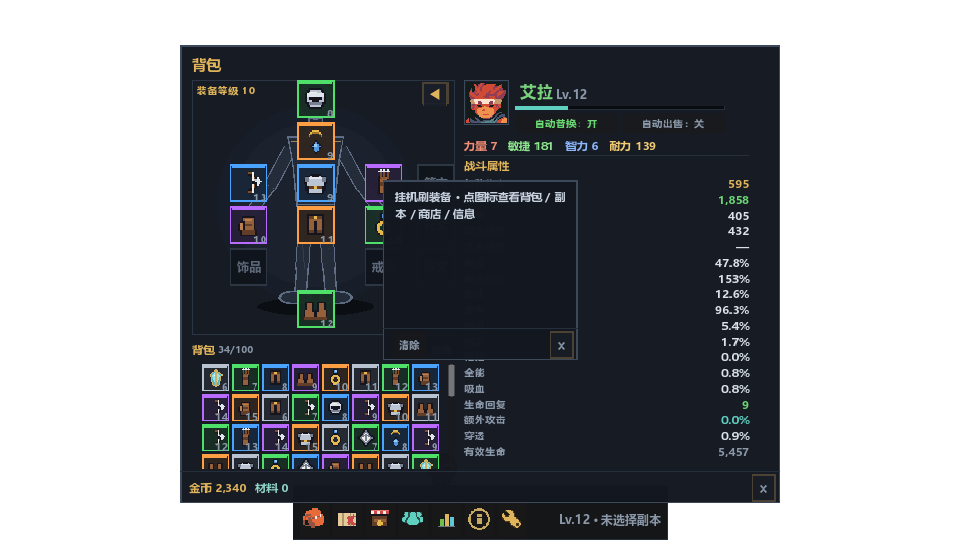
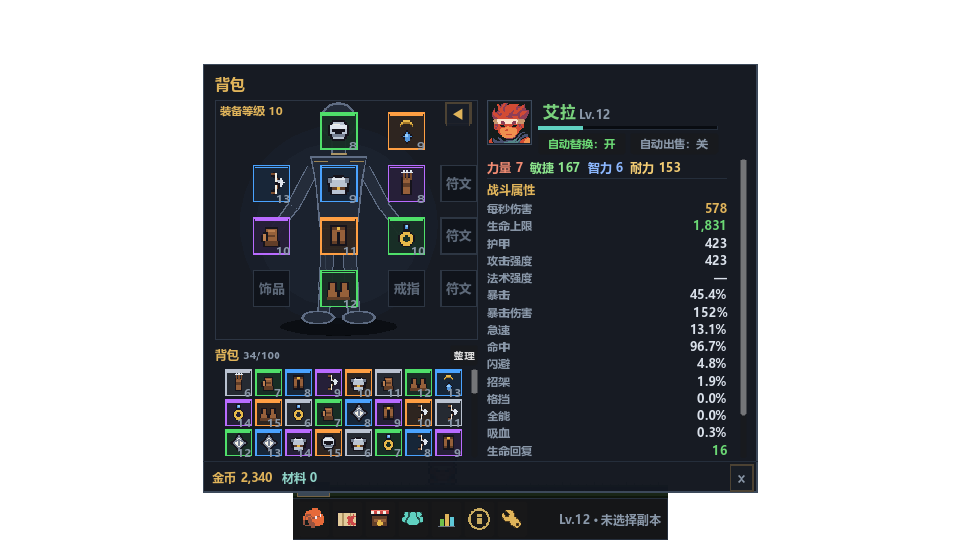
Compact equipment layout and enlarge info text

Changed region(s): [[0.1875, 0.0593, 0.8125, 0.9481], [0.5625, 0.6222, 0.625, 0.6815]]

diff --git a/README.md b/README.md
@@ -2,7 +2,7 @@
 
 桌面宠物式像素挂机小游戏。没有技能、没有手动战斗，只有角色天赋、装备词条和一路变强的数字。
 
-- 版本：0.41.0
+- 版本：0.42.0
 - 引擎：Godot 4.7.2（GL Compatibility）
 - 逻辑分辨率：1280 × 720
 - 实际窗口：960 × 540，**无边框、透明、可拖动**
@@ -143,7 +143,7 @@
 
 ## 背包（B）
 
-![背包](shots/v370_bag.png)
+![背包](shots/v430_bag.png)
 
 ![装备提示](shots/v300_tooltip.png)
 
@@ -154,8 +154,11 @@
   - 戒指、符文可在对应栏位间拖动交换；不兼容栏位会拒绝
   - 左键点击装备/卸下、右键菜单仍保留
 - 右下角关闭 ×；拖动边缘移动面板
+- 装备区改为等距四列：每列垂直间距统一为 70px；头盔下移、鞋子在上移后的位置
+- 项链移到右侧饰品列，中心列由 5 格减为 4 格；背包高度从 600 缩到 550，装备框同步缩短
+- 右侧属性区宽度由 400 缩到 340；除角色名、等级外整体字号 +1
 - 装备区行距 50px 槽位，头/胸/手/腿/脚对应人形
-- 背包 8 列、至少 3.5 行可见，滚轮查看；100 格
+- 背包 8 列，滚轮查看；100 格
 - 装备区支持 `◀/▶` 收起/展开，收起时左边位置保持不变
 - 初始装备只有新手四件；之前的测试武器已移除
 - 左键装备、右键菜单出售/锁定/分解；自动出售只处理新掉落
